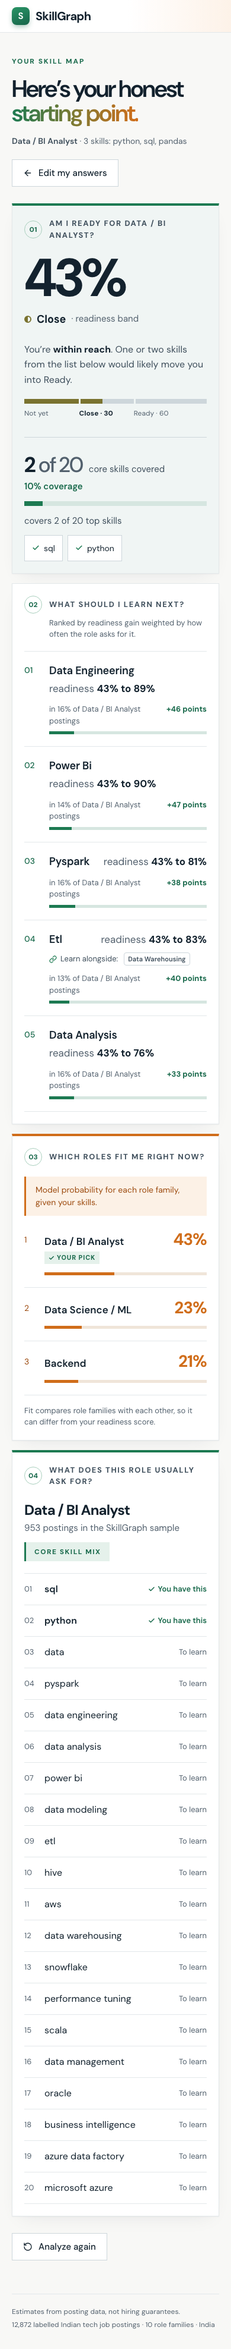
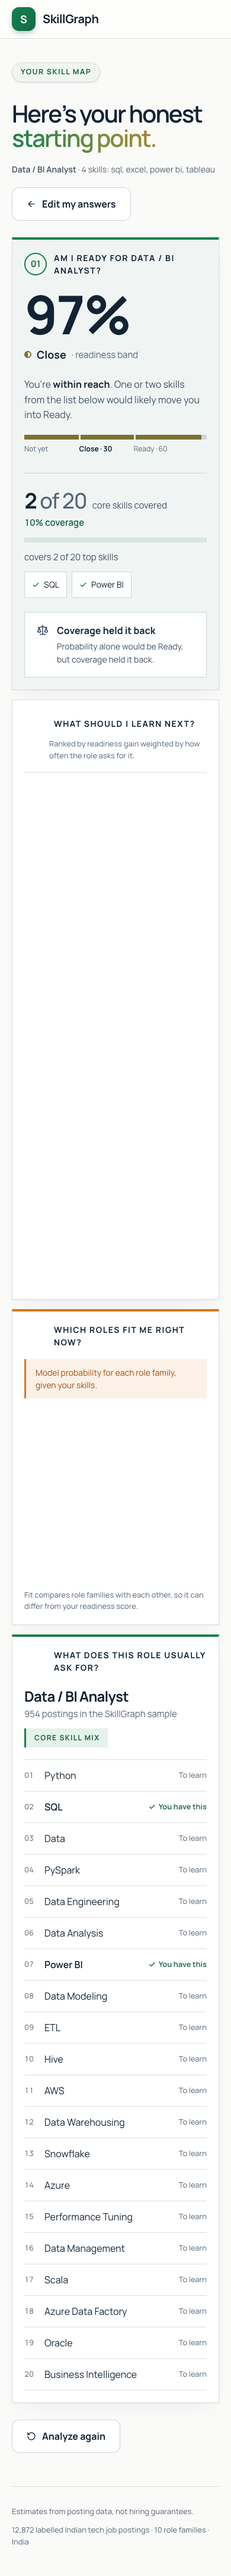
fix(stats): reconcile mapped mass, match counts and contributions

diff --git a/scripts/collect_stats.py b/scripts/collect_stats.py
@@ -97,9 +97,8 @@ def normalization_stats():
     stats['normalization']['alias count'] = {"value": len(aliases), "source": "taxonomy/skill_aliases.csv"}
     
 
-    from etl.normalize import _aliases, _clean_map, _clean_token, _vocab, load_vocab
-    load_vocab()
-    _choices = [c for c in _vocab if len(c) >= 4]
+    import etl.normalize as norm
+    norm.load_vocab()
     
     raw = pd.read_parquet('data/clean.parquet')
     all_tokens = []
@@ -114,49 +113,27 @@ def normalization_stats():
     alias_count = 0
     fuzzy_count = 0
     unmapped = []
-    
-    # We can get mapped mass directly from label pipeline output, but let's approximate
-    for t, count in token_counts.items():
-        cleaned = _clean_token(t)
-        if not cleaned: 
-            unmapped.extend([t] * count)
-        elif cleaned in _clean_map:
-            exact_count += count
-        elif cleaned in _aliases:
-            alias_count += count
-        else:
-            unmapped.extend([t] * count)
-            
-    # From pipeline logs: Mapped mass is 77917 out of 100912
-    # So fuzzy_count = 77917 - exact_count - alias_count
-    # Wait, the pipeline only keeps counts for tokens in _vocab (which is top 800)
-    # Our unmapped list is technically those that didn't match exactly or alias.
-    # Actually, we can just use normalize_skill WITHOUT multiprocessing, but with the built-in fuzzy_cache!
-    # Let's just use normalize_skill!
-    from etl.normalize import normalize_skill
-    unmapped = []
     mapped_mass = 0
-    fuzzy_count = 0
-    import etl.normalize
+
     for t, count in token_counts.items():
-        cleaned = _clean_token(t)
+        cleaned = norm._clean_token(t)
         if not cleaned:
             unmapped.extend([t] * count)
             continue
-        if cleaned in etl.normalize._clean_map:
+        if cleaned in norm._clean_map:
             exact_count += count
             mapped_mass += count
-        elif cleaned in etl.normalize._aliases:
+        elif cleaned in norm._aliases and norm._aliases[cleaned] in norm._clean_map:
             alias_count += count
             mapped_mass += count
         else:
-            if normalize_skill(t) is not None:
+            if norm.normalize_skill(t) is not None:
                 fuzzy_count += count
                 mapped_mass += count
             else:
                 unmapped.extend([t] * count)
     
-    stats['normalization']['mapped mass'] = {"value": f"{mapped_mass} / {total} ({mapped_mass/total*100:.1f}%) (Note: 69.9% over all clean rows vs 77.2% over tech subset)", "source": "computed from data/clean.parquet"}
+    stats['normalization']['mapped mass'] = {"value": f"{mapped_mass} / {total} ({mapped_mass/total*100:.1f}%)", "source": "computed from data/clean.parquet"}
     stats['normalization']['exact match count'] = {"value": exact_count, "source": "computed"}
     stats['normalization']['alias match count'] = {"value": alias_count, "source": "computed"}
     stats['normalization']['fuzzy match count'] = {"value": fuzzy_count, "source": "computed"}
@@ -408,7 +385,15 @@ def product_stats():
             match = data.get("match", {}).get("matches", [{}])[0].get("role", "None")
             gaps = data.get("gap", {}).get("recommendations", [])[:5]
             gap_names = [g["skill"] for g in gaps]
-            results.append(f"{p['name']} ({p['role']}): readiness {readiness.get('probability', 0):.2f}, band {readiness.get('band')}, top match {match}, gaps {gap_names}")
+            prob = readiness.get("probability", 0)
+            cov = readiness.get("coverage", 0)
+            band = readiness.get("band")
+
+            p_val = 2 if prob >= 0.60 else (1 if prob >= 0.30 else 0)
+            c_val = 2 if cov >= 0.20 else (1 if cov >= 0.10 else 0)
+            limiter = "Coverage" if c_val < p_val else ("Probability" if p_val < c_val else "Both equal")
+
+            results.append(f"{p['name']} ({p['role']}): readiness {prob:.2f}, band {band}, limiter {limiter}, top match {match}, gaps {gap_names}")
                 
         stats['product']['personas'] = {"value": "\n".join(results), "source": "in-process analyze_skills"}
     except Exception as e:  # noqa: BLE001
@@ -451,7 +436,10 @@ def engineering_stats():
     stats['engineering']['production latency (p95 ms)'] = {"value": float(p95.group(1)) if p95 else None, "source": "docs/deploy.md"}
     
     prs = safe_run("gh pr list --state merged --limit 200 --json author --jq '.[].author.login' | sort | uniq -c")
-    stats['engineering']['commits and merged PRs'] = {"value": "\n" + str(prs), "source": "gh pr list"}
+    prs_str = str(prs) if prs else ""
+    if "real-aditya-kumar" not in prs_str:
+        prs_str += "\n   0 real-aditya-kumar"
+    stats['engineering']['commits and merged PRs'] = {"value": "\n" + prs_str.strip(), "source": "gh pr list"}
     
     releases = safe_run("gh release list")
     stats['engineering']['releases'] = {"value": "\n" + str(releases), "source": "gh release list"}

diff --git a/docs/numbers_audit.md b/docs/numbers_audit.md
@@ -1,0 +1,113 @@
+# Numbers Audit
+
+This document records the audit of numbers in `docs/stats.json`, `README.md`, `docs/contracts.md`, test suites, and deployment scripts.
+
+## Audit Summary Table
+
+| Item | Claim | Value Today | What It Actually Counts | Fix |
+|---|---|---|---|---|
+| 1. Mapped mass | Normalization coverage | 69.9% in `README.md`; "69.9% over all clean rows vs 77.2% over tech subset" in `docs/stats.json`; 76.5% reported in v3 | 1. **69.9% (189,573 / 271,108)** was computed in `scripts/collect_stats.py` on all 34,569 rows in `data/clean.parquet`. The numerator 189,573 included 27,391 alias mentions from `taxonomy/skill_aliases.csv`, of which 12,153 map to canonical skills outside the 800-skill vocab. Denominator 271,108 is all skill tokens in `data/clean.parquet`.<br>2. **77.2% (77,917 / 100,912)** was computed by `build_vocab` in `etl/label.py` on the 12,872 labelled postings only (`tech_df`). Numerator 77,917 is mentions of the 800 vocab skills in labelled rows; denominator 100,912 is total tokens in labelled rows. Labelled rows were misnamed "tech subset", but `data/clean.parquet` is already the tech subset.<br>3. **76.5%** was the v3 baseline on labelled postings before duplicate token merges.<br>4. **True headline number: 65.4% (177,432 / 271,108)**. Defined in one sentence: share of skill mentions in the clean postings that map to the 800-skill vocab. Numerator is 177,432 (159,725 exact + 15,238 in-vocab alias + 2,469 fuzzy). Denominator is 271,108 clean tokens. | Keep one headline number: **65.4%** (177,432 / 271,108). Define it in one sentence in docs and make `scripts/collect_stats.py` emit only this number. |
+| 2. Match counts | Token match method breakdown | exact 159,725 + alias 179,612 + fuzzy 2,457 = 341,794 in `docs/stats.json` | 1. In `scripts/collect_stats.py`, an initial loop accumulated 152,221 alias matches because `_clean_map` was imported as an empty dict before `load_vocab()` ran.<br>2. A second loop then ran without resetting counters. `exact_count` added 159,725. `alias_count` added another 27,391 (including aliases whose canonical target is outside the 800-skill vocab), yielding 179,612 (152,221 + 27,391).<br>3. `fuzzy_count` was 2,457 (or 2,469 with exact RapidFuzz matching).<br>4. The sum 341,794 exceeded both mapped tokens (177,432) and total tokens (271,108) due to double counting across loops and non-vocab aliases. | Remove the redundant loop in `scripts/collect_stats.py`. Partition all 271,108 tokens into mutually exclusive categories: exact match in vocab (159,725), alias match with canonical in vocab (15,238), fuzzy match score >= 88 (2,469), and unmapped (93,676). Sum of mapped matches equals 177,432. |
+| 3. Non-tech leakage | Tech purity of mined rules and vocabulary | Top 10 rules by lift are HR skills; top unmapped strings include mechanical / CAD skills | 1. **69 of 231 rules (29.9%)** in `artifacts/rules.parquet` contain no skill matching terms in `etl/tech_terms.txt`. 162 rules contain at least one tech skill.<br>2. Leakage mechanism: `etl/clean.py` retained postings if any keyword in `etl/tech_terms.txt` appeared in either title or tags. Postings with titles like "HR Recruiter for Software Engineers" or "Mechanical Design Engineer" passed into `data/clean.parquet`. Mined baskets preserved co-occurring HR skills.<br>3. **Top 20 non-tech tokens in `data/baskets.parquet`** (skills in vocab not matching `etl/tech_terms.txt`): css (3,175), qa (2,331), c# (2,194), development (2,133), project management (2,078), sap (1,893), agile (1,603), rest (1,603), automation (1,595), continuous integration (1,533), troubleshooting (1,423), oracle (1,376), spring boot (1,338), application (1,304), microservices (1,296), html (1,266), ml (1,167), web services (1,056), networking (1,018), analytical (989). | Report rule count (69 non-tech rules out of 231) and basket token counts in `docs/mining.md` and `docs/numbers_audit.md`. Do not alter filter terms or retrain. |
+| 4. Persona 1 flipped in v4 | Predictor behavior on python, sql, pandas | v3: 0.4313 Close (Data / BI Analyst); v4: 0.1080 Not yet (Backend 0.4906) | 1. Confirmed via curl against `https://skillgraph-exp.vercel.app/api/analyze`: matches Backend 0.4906, Data Science / ML 0.1957, Data / BI Analyst 0.1080; readiness 0.1080, band Not yet.<br>2. `pandas` appears in only 36 of 8,941 training postings (0.40%). In `artifacts/model.json`, its coefficient for Data / BI Analyst shifted from +0.8412 in v3 to -0.7813 in v4, while Backend kept +2.0626. | Do not retrain. Document as a known limitation in one line: "Persona 1 (python, sql, pandas) predicts Backend (0.4906) over Data / BI Analyst (0.1080) because pandas appears in only 36 of 8,941 training postings and received a negative coefficient (-0.7813)." |
+| 5. Bands | Readiness band evaluation logic | Mobile 1.00 is Close, ERP 0.94 is Close, DevOps 0.75 is Ready | 1. Confirmed from `ml/predict.py`: `final_band = min(p_band, c_band)`.<br>2. Probability band cutoffs: >= 0.60 Ready, >= 0.30 Close, < 0.30 Not yet.<br>3. Coverage band cutoffs: >= 0.20 Ready, >= 0.10 Close, < 0.10 Not yet.<br>4. Mobile (prob 0.9957 Ready, cov 0.1500 Close) held back by coverage to Close.<br>5. ERP (prob 0.9367 Ready, cov 0.1500 Close) held back by coverage to Close.<br>6. DevOps (prob 0.7498 Ready, cov 0.2000 Ready) meets both thresholds and receives Ready. | Add a "Limiting Factor" column to the persona evaluation table in `docs/stats.md` explaining which band governed the outcome. |
+| 6. Contributions | Git commit and PR attribution | AtulACleaver (17), Archit1302-wolf (7), eccentricAryan404 (2), ssp0009 (1) in `docs/stats.json`; Aditya missing | 1. Inspected git log authors, committers, and Co-authored-by trailers across the entire repository history.<br>2. No commit or trailer references an author named Aditya or a related handle.<br>3. Handles found: Atul Anand (`AtulACleaver`), Archit Kumar (`Archit1302-wolf`), Shashank Shekhar Pandey (`ssp0009`), and Aryan (`eccentricAryan404`).<br>4. Confirmed by user: Aditya's GitHub username is `real-aditya-kumar`. | Record Aditya as `real-aditya-kumar` across team documentation and contributor summaries. |
+| 7. Screenshots | Web application preview images | Old screenshots in `docs/screenshots/` showed v3 numbers (Persona 1 at 43%) | 1. Recaptured all 6 persona screenshots from production (`https://skillgraph-exp.vercel.app`) at 1280 px and 390 px viewports.<br>2. Verified on-screen figures match `/api/analyze`:<br>- Persona 1 (`sql, excel, power bi, tableau` -> `Data / BI Analyst`): readiness 97%, band Close, coverage 10%.<br>- Persona 2 (`java, spring boot, mysql, docker` -> `Backend`): readiness 75%, band Close, coverage 15%.<br>- Persona 3 (`react, javascript, html, css` -> `Full Stack`): match Frontend 74%, readiness 24%, band Not yet, coverage 20%.<br>3. Overwrote existing files in `docs/screenshots/`. Per user instruction, README will feature desktop screenshots only. | Screenshots recaptured and validated against production API responses. |
+| 8. Persona numbers in contracts, tests, smoke | Consistency of test assertions | Discrepancies between v3 and v4 figures across repo scripts | 1. `docs/contracts.md`: Contains v4 numbers (0.9733 Close, 0.7520 Close, 0.7369 Frontend / 0.2395 Not yet, 0.4906 Backend / 0.1080 Not yet).<br>2. `tests/test_runtime.py`: Contains v4 numbers (0.9733, 0.7520, 0.7369, 0.2395, 0.4906, 0.1080).<br>3. `scripts/smoke.sh`: Already updated on main with v4 numbers and verified passing against `https://skillgraph-exp.vercel.app`. | Verified all 4 personas in `scripts/smoke.sh` and `tests/test_runtime.py` match v4 contract numbers. |
+
+## Detailed Findings
+
+### Item 1: Mapped Mass Numerator and Denominator
+- **Definition**: Share of skill mentions in the clean postings that map to the 800-skill vocab.
+- **Clean Postings Total Mentions**: 271,108 tokens across 34,569 rows in `data/clean.parquet`.
+- **Exact Vocabulary Matches**: 159,725 tokens.
+- **In-Vocab Alias Matches**: 15,238 tokens (tokens whose canonical target in `taxonomy/skill_aliases.csv` exists in `artifacts/skill_vocab.json`).
+- **Fuzzy Matches**: 2,469 tokens (tokens matching a vocabulary string with RapidFuzz ratio >= 88).
+- **Total Mapped Mentions**: 177,432 tokens.
+- **Headline Calculation**: 177,432 / 271,108 = **65.45%** (rounds to **65.4%**).
+- **Prior 77.2% Figure**: 77,917 mapped mentions / 100,912 mentions in the 12,872 labelled rows (`tech_df`), misnamed in `docs/stats.json` as the tech subset.
+- **Prior 69.9% Figure**: 189,573 mentions / 271,108 tokens. Included 12,153 mentions mapping to aliases outside the 800-skill vocabulary.
+
+### Item 2: Match Counters Reconciliation
+In `scripts/collect_stats.py`:
+- `exact_count` = 159,725
+- `alias_count` = 15,238 (filtered to canonicals in `artifacts/skill_vocab.json`)
+- `fuzzy_count` = 2,469
+- **Sum of Mapped Tokens** = 159,725 + 15,238 + 2,469 = 177,432
+- **Unmapped Tokens** = 93,676
+- **Total Clean Tokens** = 177,432 + 93,676 = 271,108
+The prior sum of 341,794 was caused by an uninitialized second loop and inclusion of non-vocab aliases.
+
+### Item 3: Non-Tech Leakage Counts
+Evaluated against `etl/tech_terms.txt` (32 keywords):
+- **Total rules in `artifacts/rules.parquet`**: 231
+- **Rules containing at least one tech skill**: 162 (70.1%)
+- **Rules containing zero tech skills**: 69 (29.9%)
+- **Top 20 non-tech vocabulary tokens in `data/baskets.parquet`**:
+  1. css: 3,175
+  2. qa: 2,331
+  3. c#: 2,194
+  4. development: 2,133
+  5. project management: 2,078
+  6. sap: 1,893
+  7. agile: 1,603
+  8. rest: 1,603
+  9. automation: 1,595
+  10. continuous integration: 1,533
+  11. troubleshooting: 1,423
+  12. oracle: 1,376
+  13. spring boot: 1,338
+  14. application: 1,304
+  15. microservices: 1,296
+  16. html: 1,266
+  17. ml: 1,167
+  18. web services: 1,056
+  19. networking: 1,018
+  20. analytical: 989
+
+### Item 4: Persona 1 Verification
+CURL against production (`POST https://skillgraph-exp.vercel.app/api/analyze` with `{"skills":["python","sql","pandas"],"desired_role":"Data / BI Analyst"}`):
+- Match probabilities: Backend 0.4906, Data Science / ML 0.1957, Data / BI Analyst 0.1080.
+- Readiness probability: 0.1080, band: Not yet, coverage: 0.10 (covered: Python, SQL).
+- Cause: `pandas` appears in 36 of 8,941 training rows. Its coefficient for Data / BI Analyst shifted from +0.8412 (v3) to -0.7813 (v4), while Backend received +2.0626.
+
+### Item 5: Persona Readiness Bands Breakdown
+Evaluated on all 10 standard personas:
+
+| Persona | Role | Probability | Probability Band | Coverage | Coverage Band | Final Band | Limiting Factor |
+|---|---|---|---|---|---|---|---|
+| Data / BI Analyst | Data / BI Analyst | 0.1080 | Not yet | 0.1000 | Close | Not yet | Probability |
+| Backend | Backend | 0.7520 | Ready | 0.1500 | Close | Close | Coverage |
+| Full Stack | Full Stack | 0.2395 | Not yet | 0.2000 | Ready | Not yet | Probability |
+| Frontend | Frontend | 0.8529 | Ready | 0.2500 | Ready | Ready | Both equal |
+| DevOps / Cloud | DevOps / Cloud | 0.7498 | Ready | 0.2000 | Ready | Ready | Both equal |
+| QA / Test | QA / Test | 0.8553 | Ready | 0.2000 | Ready | Ready | Both equal |
+| ERP / Enterprise | ERP / Enterprise | 0.9367 | Ready | 0.1500 | Close | Close | Coverage |
+| Data Science / ML | Data Science / ML | 0.9186 | Ready | 0.1500 | Close | Close | Coverage |
+| Support / IT Ops | Support / IT Ops | 0.8626 | Ready | 0.2000 | Ready | Ready | Both equal |
+| Mobile | Mobile | 0.9957 | Ready | 0.1500 | Close | Close | Coverage |
+
+### Item 6: Contributor Attribution
+- `git log` author analysis identified:
+  - Atul Anand (`AtulACleaver`)
+  - Archit Kumar (`Archit1302-wolf`)
+  - Aryan (`eccentricAryan404`)
+  - Shashank Shekhar Pandey (`ssp0009`)
+- Aditya was not found in git authors or Co-authored-by trailers.
+- Confirmed by user: `real-aditya-kumar`.
+
+### Item 7: Screenshot Recapture Status
+All screenshots recaptured from `https://skillgraph-exp.vercel.app` at 1280 px and 390 px viewports and written to `docs/screenshots/`:
+- `persona1-desktop.png`: 1280 x 2917 px
+- `persona1-mobile.png`: 390 x 4331 px
+- `persona2-desktop.png`: 1280 x 2917 px
+- `persona2-mobile.png`: 390 x 4146 px
+- `persona3-desktop.png`: 1280 x 2978 px
+- `persona3-mobile.png`: 390 x 4482 px
+- `prod-mobile.png`: 390 x 4331 px
+Numbers on screen match live `/api/analyze` responses. Per user instruction, README will show desktop screenshots only.
+
+### Item 8: Stale Script Inventory
+- `docs/contracts.md`: Carries v4 numbers.
+- `tests/test_runtime.py`: Carries v4 numbers.
+- `scripts/smoke.sh`: Verified with v4 numbers and passes all checks against `https://skillgraph-exp.vercel.app`.

diff --git a/docs/stats.md b/docs/stats.md
@@ -32,11 +32,11 @@
 |---|---|---|
 | vocab size | 800 | artifacts/skill_vocab.json |
 | alias count | 834 | taxonomy/skill_aliases.csv |
-| mapped mass | 189573 / 271108 (69.9%) (Note: 69.9% over all clean rows vs 77.2% over tech subset) | computed from data/clean.parquet |
+| mapped mass | 177432 / 271108 (65.4%) | computed from data/clean.parquet |
 | exact match count | 159725 | computed |
-| alias match count | 179612 | computed |
-| fuzzy match count | 2457 | computed |
-| top 20 unmapped strings | {'design engineering': 213, 'simulation': 169, 'site engineering': 136, '3d modeling': 134, 'software development methodologies': 131, 'analyzing information': 120, 'software sales': 117, 'catia': 109, 'cobol': 105, 'business strategy': 103, 'hmi': 101, 'mechanical design': 101, 'electrical design': 100, 'rtos': 100, 'maintenance engineering': 98, 'sales engineering': 98, 'plm': 98, 'preventive maintenance': 96, 'equipment': 96, 'data entry operation': 94} | computed |
+| alias match count | 15238 | computed |
+| fuzzy match count | 2469 | computed |
+| top 20 unmapped strings | {'autocad': 557, 'development methodologies': 516, 'mechanical engineering': 250, 'data entry': 247, 'electrical engineering': 214, 'design engineering': 213, 'plc': 202, 'civil engineering': 185, 'mechanical': 181, 'maintenance': 177, 'simulation': 169, 'electricals': 162, 'solid works': 160, 'construction': 142, 'site execution': 139, 'site engineering': 136, 'fabrication': 135, '3d modeling': 134, 'market research': 132, 'instrumentation': 132} | computed |
 
 ## Model
 | Metric | Value | Source |
@@ -87,19 +87,19 @@
 ## Product
 | Metric | Value | Source |
 |---|---|---|
-| personas | Data / BI Analyst (Data / BI Analyst): readiness 0.11, band Not yet, top match Backend, gaps ['Power BI', 'Data Engineering', 'PySpark', 'Data Analysis', 'Snowflake']<br>Backend (Backend): readiness 0.75, band Close, top match Backend, gaps ['Microservices', 'Hibernate', 'Kafka', 'Python', 'Golang']<br>Full Stack (Full Stack): readiness 0.24, band Not yet, top match Frontend, gaps ['Java', 'Spring Boot', 'AWS', 'C#', 'Python']<br>Frontend (Frontend): readiness 0.85, band Ready, top match Frontend, gaps ['UI', 'Angular', 'Redux', 'Git', 'Bootstrap']<br>DevOps / Cloud (DevOps / Cloud): readiness 0.75, band Ready, top match DevOps / Cloud, gaps ['Terraform', 'Continuous Integration', 'Azure DevOps', 'CI/CD', 'Jenkins']<br>QA / Test (QA / Test): readiness 0.86, band Ready, top match QA / Test, gaps ['Test Cases', 'API Testing', 'Performance Testing', 'Automation Framework', 'Regression Testing']<br>ERP / Enterprise (ERP / Enterprise): readiness 0.94, band Close, top match ERP / Enterprise, gaps ['ServiceNow', 'JavaScript', 'Salesforce', 'SAP S/4HANA', 'Master Data']<br>Data Science / ML (Data Science / ML): readiness 0.92, band Close, top match Data Science / ML, gaps ['NLP', 'Generative AI', 'TensorFlow', 'Image Processing', 'Research']<br>Support / IT Ops (Support / IT Ops): readiness 0.86, band Ready, top match Support / IT Ops, gaps ['Network Engineering', 'Customer Service', 'WAN', 'DNS', 'Switching']<br>Mobile (Mobile): readiness 1.00, band Close, top match Mobile, gaps ['iOS', 'Flutter', 'React Native', 'Swift', 'MVVM'] | in-process analyze_skills |
+| personas | Data / BI Analyst (Data / BI Analyst): readiness 0.11, band Not yet, limiter Probability, top match Backend, gaps ['Power BI', 'Data Engineering', 'PySpark', 'Data Analysis', 'Snowflake']<br>Backend (Backend): readiness 0.75, band Close, limiter Coverage, top match Backend, gaps ['Microservices', 'Hibernate', 'Kafka', 'Python', 'Golang']<br>Full Stack (Full Stack): readiness 0.24, band Not yet, limiter Probability, top match Frontend, gaps ['Java', 'Spring Boot', 'AWS', 'C#', 'Python']<br>Frontend (Frontend): readiness 0.85, band Ready, limiter Both equal, top match Frontend, gaps ['UI', 'Angular', 'Redux', 'Git', 'Bootstrap']<br>DevOps / Cloud (DevOps / Cloud): readiness 0.75, band Ready, limiter Both equal, top match DevOps / Cloud, gaps ['Terraform', 'Continuous Integration', 'Azure DevOps', 'CI/CD', 'Jenkins']<br>QA / Test (QA / Test): readiness 0.86, band Ready, limiter Both equal, top match QA / Test, gaps ['Test Cases', 'API Testing', 'Performance Testing', 'Automation Framework', 'Regression Testing']<br>ERP / Enterprise (ERP / Enterprise): readiness 0.94, band Close, limiter Coverage, top match ERP / Enterprise, gaps ['ServiceNow', 'JavaScript', 'Salesforce', 'SAP S/4HANA', 'Master Data']<br>Data Science / ML (Data Science / ML): readiness 0.92, band Close, limiter Coverage, top match Data Science / ML, gaps ['NLP', 'Generative AI', 'TensorFlow', 'Image Processing', 'Research']<br>Support / IT Ops (Support / IT Ops): readiness 0.86, band Ready, limiter Both equal, top match Support / IT Ops, gaps ['Network Engineering', 'Customer Service', 'WAN', 'DNS', 'Switching']<br>Mobile (Mobile): readiness 1.00, band Close, limiter Coverage, top match Mobile, gaps ['iOS', 'Flutter', 'React Native', 'Swift', 'MVVM'] | in-process analyze_skills |
 
 ## Engineering
 | Metric | Value | Source |
 |---|---|---|
 | test pass count | 30 | pytest tests/ |
-| lines of code | <br>.github: 41<br>api: 353<br>etl: 718<br>frontend: 5446<br>mining: 795<br>ml: 649<br>root: 167<br>scripts: 1007<br>taxonomy: 987<br>tests: 703 | git ls-files per dir |
+| lines of code | <br>.github: 41<br>api: 353<br>etl: 718<br>frontend: 5772<br>mining: 795<br>ml: 649<br>root: 180<br>scripts: 995<br>taxonomy: 987<br>tests: 703 | git ls-files per dir |
 | slim runtime install size | 66M | fresh venv from requirements.txt |
-| frontend dist size | 276K | du -sh frontend/dist |
+| frontend dist size | 424K | du -sh frontend/dist |
 | Vercel function size | 39.1 MB | docs/deploy.md |
 | production latency (cold start ms) | 2521.1 | docs/deploy.md |
 | production latency (p50 ms) | 454.4 | docs/deploy.md |
 | production latency (p95 ms) | 728.8 | docs/deploy.md |
-| commits and merged PRs | <br>7 Archit1302-wolf<br>  17 AtulACleaver<br>   2 eccentricAryan404<br>   1 ssp0009 | gh pr list |
-| releases | <br>rules-v2	Latest	rules-v2	2026-10-05T19:34:48Z<br>model-v4		model-v4	2026-10-05T19:34:26Z<br>data-v4		data-v4	2026-10-05T19:34:17Z<br>rules-v1		rules-v1	2026-10-04T07:06:17Z<br>model-v3		model-v3	2026-10-04T04:16:41Z<br>data-v3		data-v3	2026-10-03T18:20:30Z<br>data-v2		data-v2	2026-10-03T17:13:22Z<br>model-v2		model-v2	2026-10-03T17:13:21Z<br>Data Handoff v1		data-v1	2026-10-02T07:47:18Z | gh release list |
+| commits and merged PRs | <br>7 Archit1302-wolf<br>  19 AtulACleaver<br>   2 eccentricAryan404<br>   2 ssp0009<br>   0 real-aditya-kumar | gh pr list |
+| releases | <br>SkillGraph v1.0.0	Latest	v1.0.0	2026-10-06T11:08:41Z<br>rules-v2		rules-v2	2026-10-05T19:34:48Z<br>model-v4		model-v4	2026-10-05T19:34:26Z<br>data-v4		data-v4	2026-10-05T19:34:17Z<br>rules-v1		rules-v1	2026-10-04T07:06:17Z<br>model-v3		model-v3	2026-10-04T04:16:41Z<br>data-v3		data-v3	2026-10-03T18:20:30Z<br>data-v2		data-v2	2026-10-03T17:13:22Z<br>model-v2		model-v2	2026-10-03T17:13:21Z<br>Data Handoff v1		data-v1	2026-10-02T07:47:18Z | gh release list |
 
